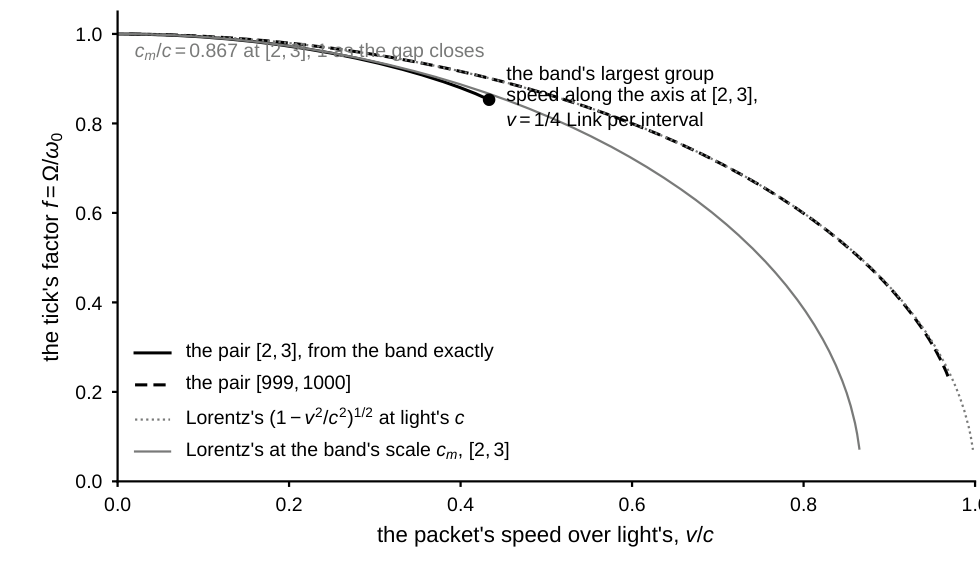
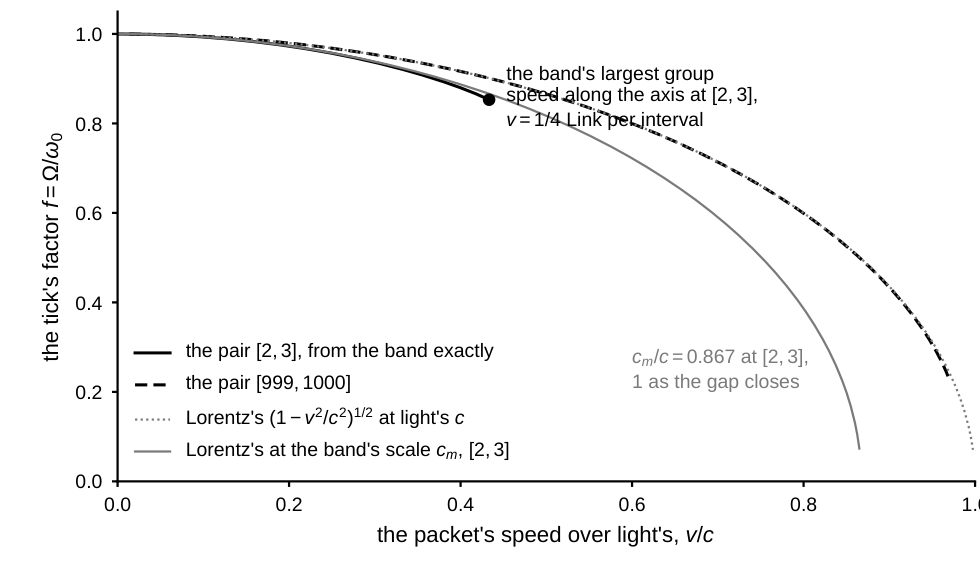
Two labels moved clear of the curves and the bars in the clock's and the two slits' figures
Claude-Session: https://claude.ai/code/session_01EK19UKr4ARs4MVajaWCW96

Changed region(s): [[0.6429, 0.5897, 0.8265, 0.6828], [0.3367, 0.0621, 0.4898, 0.1241], [0.1531, 0.0621, 0.3061, 0.0931]]

diff --git a/paper/general_formula/moving_clock.py b/paper/general_formula/moving_clock.py
@@ -116,9 +116,9 @@ def figure(ax: Axes) -> None:
         fontsize=7,
     )
     ax.text(
-        0.02,
-        0.98,
-        "$c_m / c = 0.867$ at $[2, 3]$, $1$ as the gap closes",
+        0.60,
+        0.30,
+        "$c_m / c = 0.867$ at $[2, 3]$,\n$1$ as the gap closes",
         ha="left",
         va="top",
         fontsize=7,

diff --git a/paper/general_formula/two_slits_rows.py b/paper/general_formula/two_slits_rows.py
@@ -162,7 +162,7 @@ def rows(ax: Axes) -> None:
     for r in (4, 8):
         ax.text(
             r,
-            max(BLIND[r], REAL[r]) + scatter[r] + 1.2,
+            max(BLIND[r], REAL[r]) + scatter[r] + 3.2,
             "a minimum",
             ha="center",
             va="bottom",
